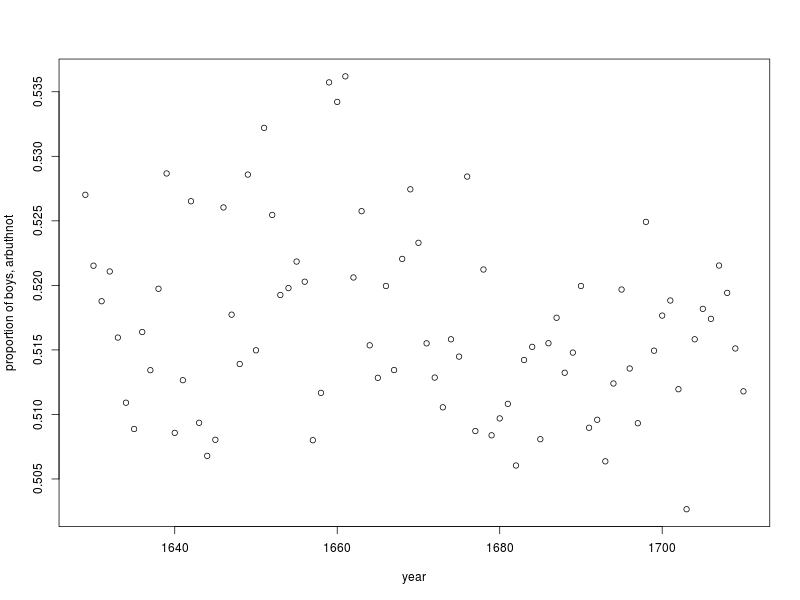
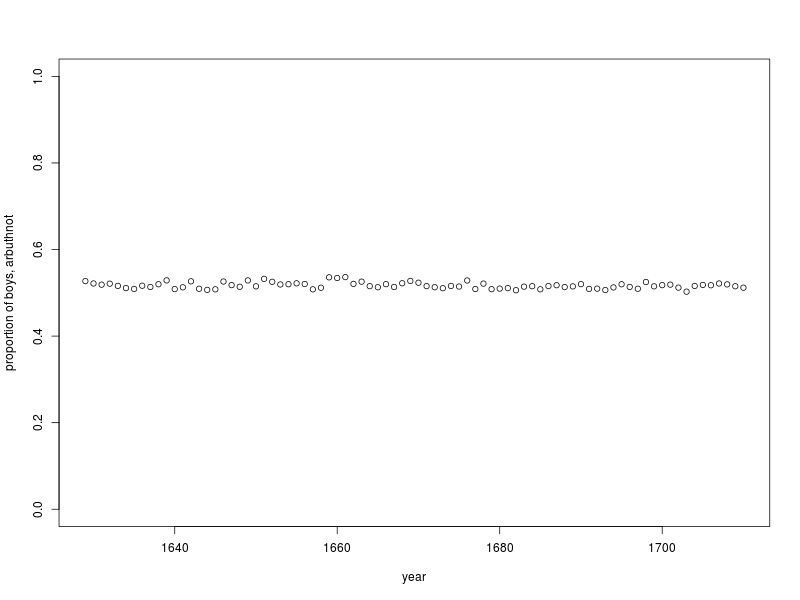
Made fixes after comments

diff --git a/README.md b/README.md
@@ -32,7 +32,7 @@ plot(girls ~ year, data = arbuthnot)
 ### Задача 3
 Строим график зависимости **доли мальчиков** от **year**. Долю рассчитываем *inline*, передавая формулу в параметр функции:
 ```r
-plot((boys / (boys + girls)) ~ year, data = arbuthnot, ylab = "proportion of boys, arbuthnot")
+plot((boys / (boys + girls)) ~ year, data = arbuthnot, ylim = c(0, 1), ylab = "proportion of boys, arbuthnot")
 ```
 Получаем следующий результат:
 ![arbethnot boys proportion plot][arb_boys_plot]
@@ -86,6 +86,14 @@ str(present)   #  look at the second dataset's structure
 ```
 Получаем, что среднее значение в первом наборе данных в 321 раз меньше, чем во втором.
 
+Как вариант, можно воспользоваться функцией **colMeans()** и получить коэффициенты для каждой колонки отдельно:
+```r
+> colMeans(present) / colMeans(arbuthnot)
+      year       boys      girls 
+  1.180593 319.209155 324.124597 
+```
+
+
 ### Задача 3
 Снова строим график зависимости **доли мальчиков** от **year**. Долю также рассчитываем *inline*, как и в предыдущий раз:
 ```r
@@ -99,6 +107,13 @@ plot((boys / (boys + girls)) ~ year, data = present, ylab = "proportion of boys,
 ```r
 present$total = present$boys + present$girls   #  calculate the total for every year
 present[present$total == max(present$total), ] #  show the row with most total births
+```
+Еще один способ добиться того же результата - функция **which.max()**:
+```r
+> which.max(present$boys + present$girls)                   #   alternative one-liner, shows row number only
+[1] 22
+> present[which.max(present$boys + present$girls), "year"]  #   show the year with most births
+[1] 1961
 ```
 
 
